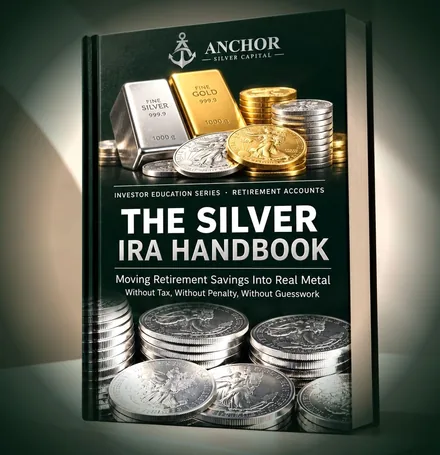
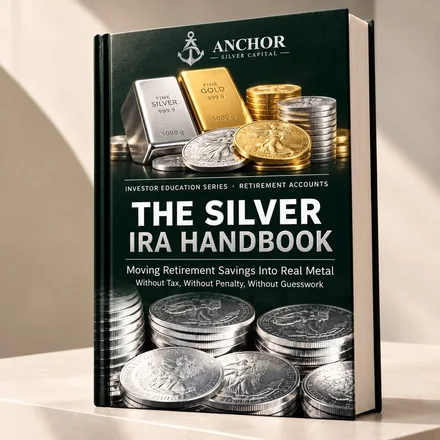
Hero cover: remove the shade (vignette, fade, glow); show the plain cover photo

diff --git a/web/app/(site)/home.css b/web/app/(site)/home.css
@@ -1257,39 +1257,17 @@ html[data-cookie-banner] .hp-sticky {
   align-items: center;
   gap: 16px;
 }
-/* the photo is a book on a cream backdrop: a feathered edge melts it into the dark hero; a gold glow sits behind it and a soft shadow under it */
 .hp-cover-wrap {
-  position: relative;
-  pointer-events: none;
   display: grid;
   place-items: center;
-  isolation: isolate;
-}
-.hp-cover-wrap::before {
-  content: "";
-  position: absolute;
-  inset: -6% -10%;
-  z-index: -1;
-  background: radial-gradient(closest-side, rgba(216, 182, 94, 0.34), rgba(216, 182, 94, 0.12) 55%, transparent 78%);
-  filter: blur(6px);
-}
-.hp-cover-wrap::after {
-  content: "";
-  position: absolute;
-  left: 10%;
-  right: 10%;
-  bottom: -2%;
-  height: 8%;
-  z-index: -1;
-  background: radial-gradient(closest-side, rgba(0, 0, 0, 0.55), transparent);
-  filter: blur(8px);
+  pointer-events: none;
 }
 .hp-cover {
   display: block;
   height: min(290px, 38svh);
   width: auto;
-  -webkit-mask-image: radial-gradient(ellipse 57% 57% at 50% 50%, #000 70%, transparent 100%);
-  mask-image: radial-gradient(ellipse 57% 57% at 50% 50%, #000 70%, transparent 100%);
+  border-radius: 14px;
+  box-shadow: 0 18px 44px rgba(0, 0, 0, 0.45);
 }
 .hp-cover-btn {
   position: relative;
@@ -1303,7 +1281,8 @@ html[data-cookie-banner] .hp-sticky {
     gap: 26px;
   }
   .hp-cover {
-    height: min(520px, 58svh);
+    height: auto;
+    width: min(430px, 100%);
   }
   .hp-cover-btn {
     min-height: 64px;

diff --git a/web/components/home/HomeClient.tsx b/web/components/home/HomeClient.tsx
@@ -304,7 +304,7 @@ export function HeroRight() {
             srcSet="/images/home/hero-handbook-440.webp 440w, /images/home/hero-handbook-700.webp 700w"
             sizes="(max-width: 859px) 260px, 500px"
             width={700}
-            height={724}
+            height={700}
             alt="The Silver IRA Handbook from Anchor Silver Capital, free to download"
             decoding="async"
             fetchPriority="high"
